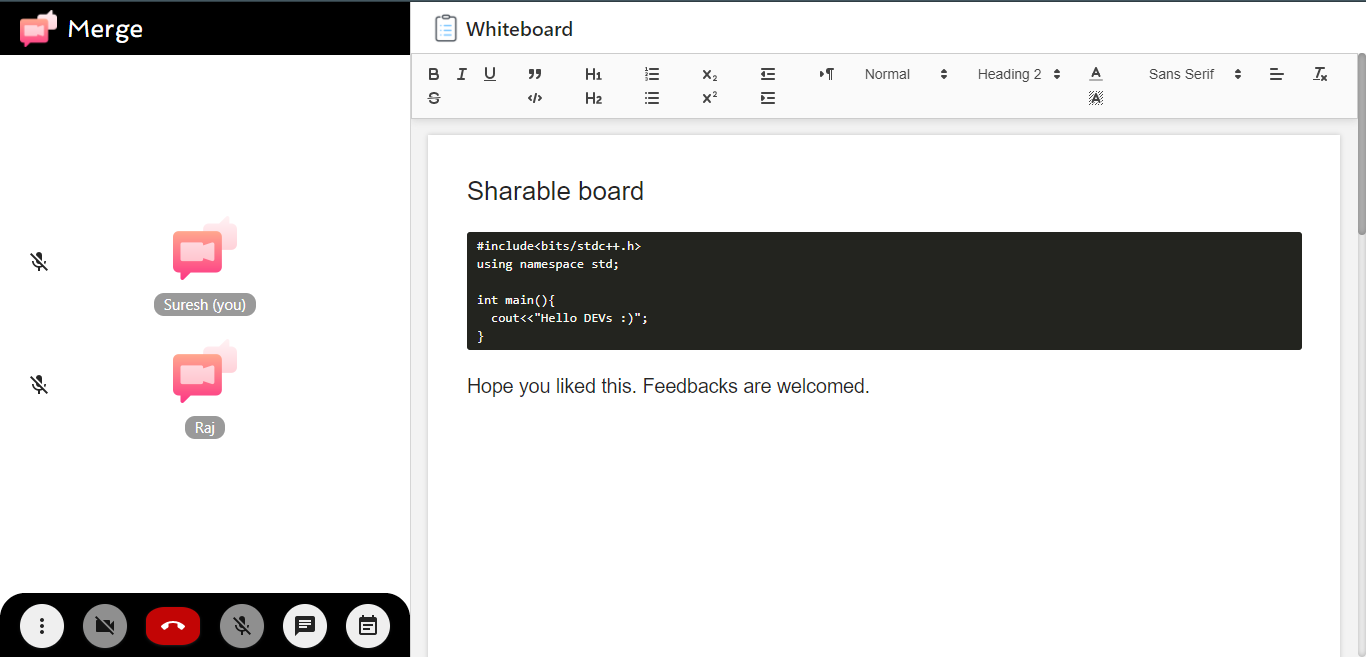
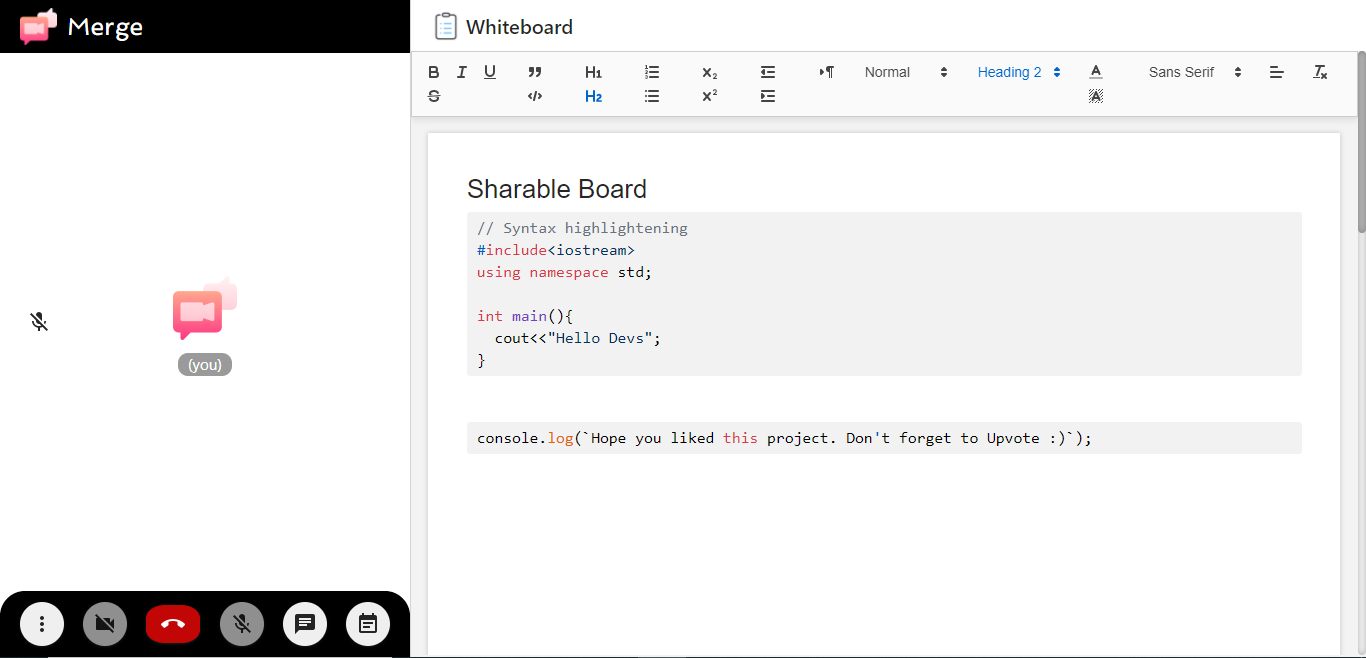
added syntax highlightening for code

diff --git a/client/src/Components/Editor/Editor.js b/client/src/Components/Editor/Editor.js
@@ -5,6 +5,8 @@ import './Editor.css';
 import saveAs from 'file-saver';
 import { pdfExporter } from 'quill-to-pdf';
 import { SocketContext } from '../../SocketContext';
+import hljs from 'highlight.js';
+import 'highlight.js/styles/github.css';
 
 var toolbarOptions = [
   ['bold', 'italic', 'underline', 'strike'],
@@ -22,13 +24,12 @@ var toolbarOptions = [
   ['clean'],
 ];
 
+hljs.configure({
+  languages: ['c++', 'java', 'javascript', 'ruby', 'python', 'swift', 'golang','html'],
+});
+
 const Editor = () => {
-  const {
-    otherUser,
-    socketState: socket,
-  } = useContext(SocketContext);
-  
-  const [name, setName] = useState('Untitled');
+  const { otherUser, socketState: socket } = useContext(SocketContext);
   const [quill, setQuill] = useState(null);
 
   useEffect(() => {
@@ -67,24 +68,18 @@ const Editor = () => {
     const q = new Quill(editor, {
       theme: 'snow',
       modules: {
+        syntax: {
+          highlight: (text) => hljs.highlightAuto(text).value,
+        },
         toolbar: toolbarOptions,
       },
     });
     setQuill(q);
   }, []);
 
-  const downloadPdf = async () => {
-    // toast.info('downlading');
-    const delta = quill.getContents();
-    const pdfAsBlob = await pdfExporter.generatePdf(delta);
-    saveAs(pdfAsBlob, `${name}.pdf`);
-  };
-
   return (
     <>
-      <div className='editor slide-left' ref={editorRef}>
-        
-      </div>
+      <div className='editor slide-left' ref={editorRef}></div>
     </>
   );
 };

diff --git a/client/public/index.html b/client/public/index.html
@@ -15,7 +15,11 @@
       user's mobile device or desktop. See https://developers.google.com/web/fundamentals/web-app-manifest/
     -->
     <link rel="manifest" href="%PUBLIC_URL%/manifest.json" />
+<!-- Include your favorite highlight.js stylesheet -->
+<link href="highlight.js/monokai-sublime.min.css" rel="stylesheet">
 
+<!-- Include the highlight.js library -->
+<script href="highlight.js"></script>
 
     <!--
       Notice the use of %PUBLIC_URL% in the tags above.

diff --git a/client/src/Components/Messages/Messages.js b/client/src/Components/Messages/Messages.js
@@ -32,7 +32,7 @@ const Messages = () => {
     socket.on('recieve-message', (data) => {
       setMessages((messages) => [...messages, data]);
         notification.open({
-          message: `New Message from ${otherUserName}`,
+          message: `New Message`,
           description: data.text,
           icon: <MessageOutlined style={{ color: '#108ee9' }} />,
         });

diff --git a/client/src/Components/Editor/Editor.scss b/client/src/Components/Editor/Editor.scss
@@ -39,6 +39,12 @@ body {
   box-shadow: rgba(99, 99, 99, 0.2) 0px 2px 8px 0px;
 }
 
+.ql-snow .ql-editor pre.ql-syntax {
+    background-color: #f2f2f2;
+    color: black;
+    font-size: 16px;
+}
+
 @page {
   margin: 1in;
 }

diff --git a/client/src/Components/Editor/Editor.css b/client/src/Components/Editor/Editor.css
@@ -41,6 +41,12 @@ body {
   box-shadow: rgba(99, 99, 99, 0.2) 0px 2px 8px 0px;
 }
 
+.ql-snow .ql-editor pre.ql-syntax {
+  background-color: #f2f2f2;
+  color: black;
+  font-size: 16px;
+}
+
 @page {
   margin: 1in;
 }
